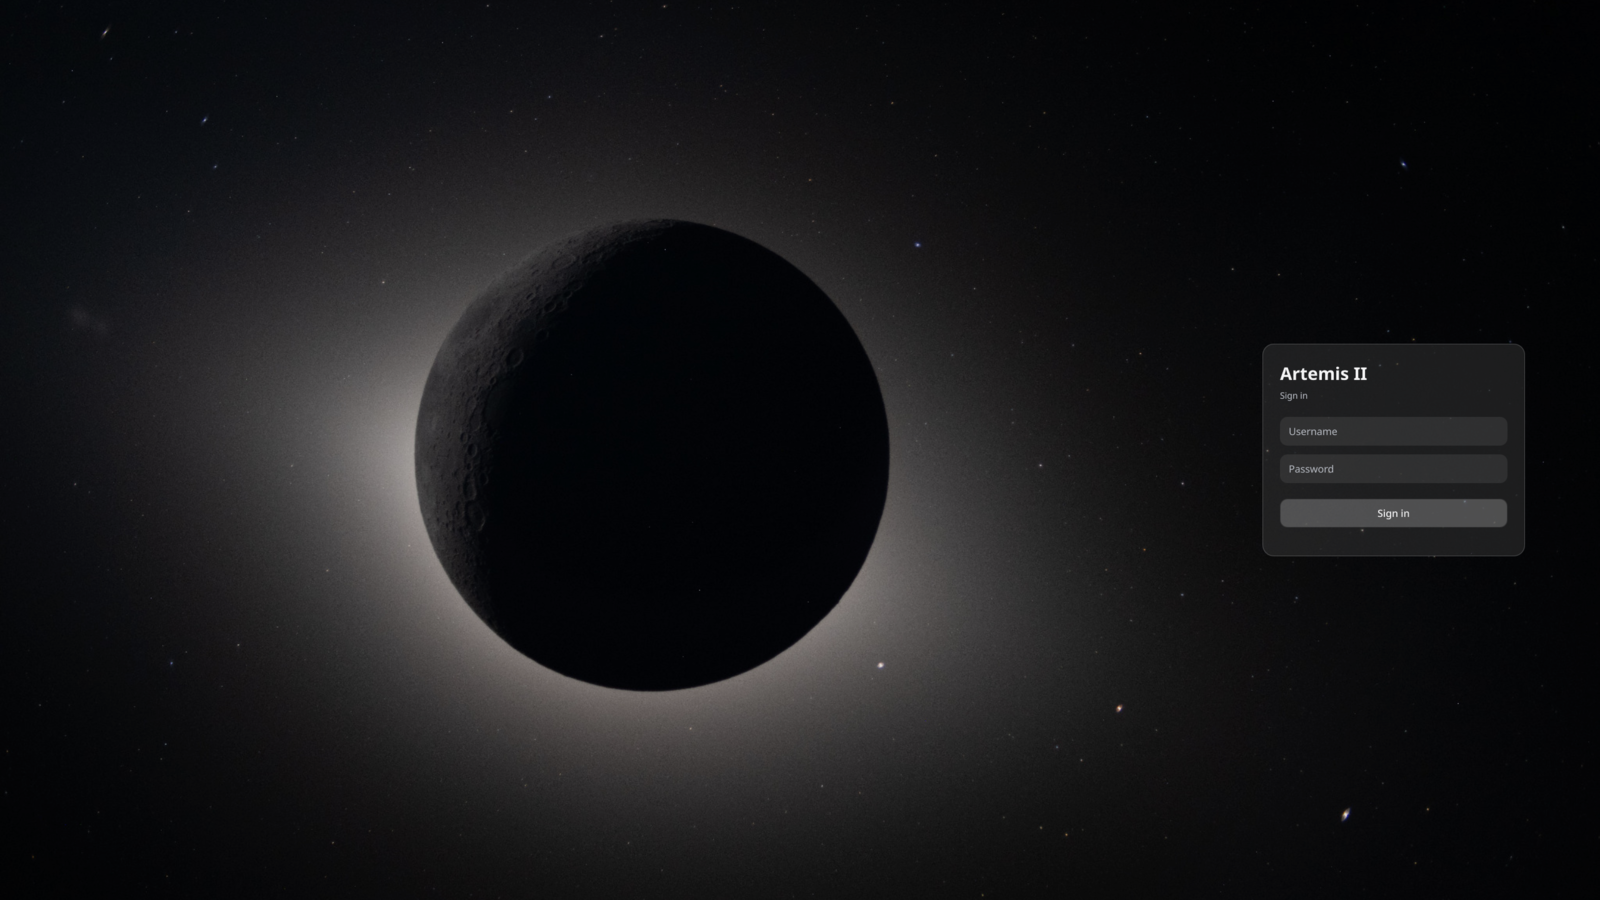
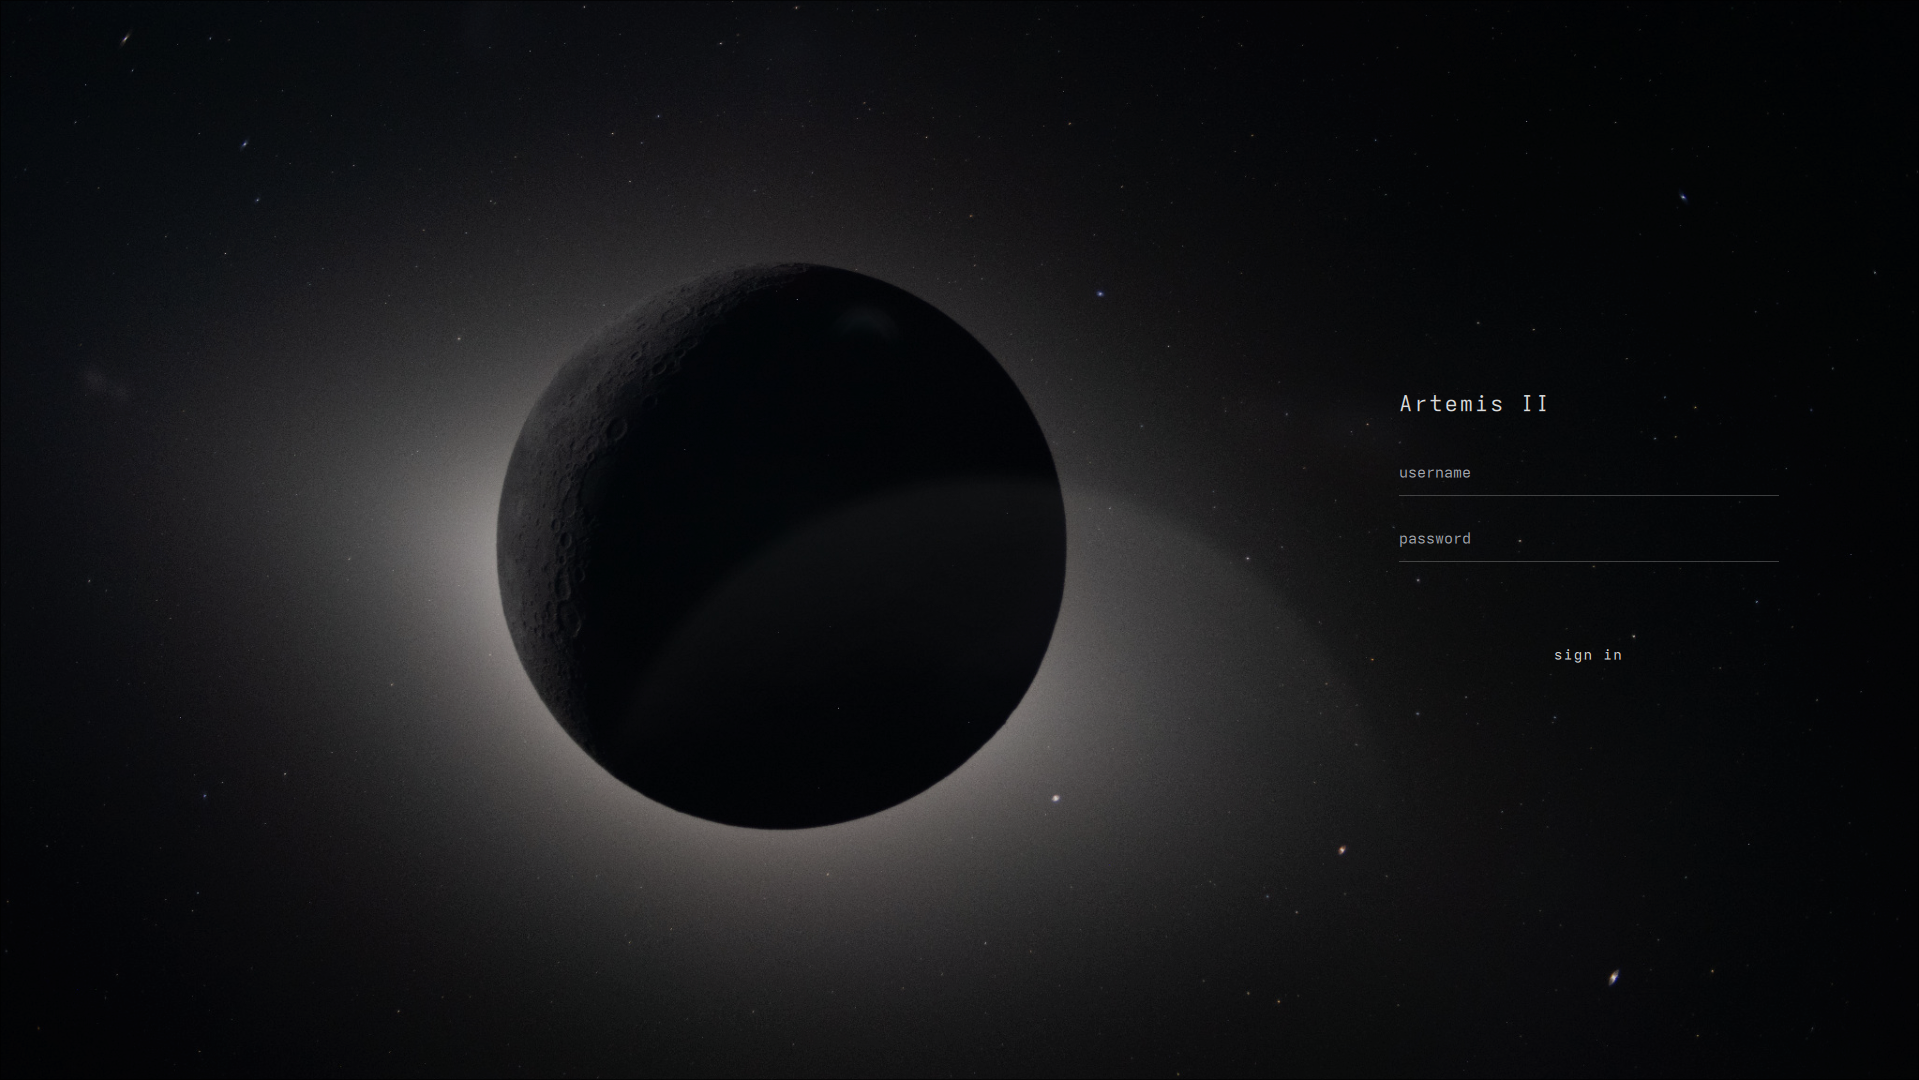
readme

Changed region(s): [[0.7188, 0.3733, 0.9688, 0.6222], [0.7188, 0.4978, 0.75, 0.5289]]

diff --git a/README.md b/README.md
@@ -2,6 +2,11 @@
 
 A minimal static SDDM theme for Plasma/SDDM, built around a dark lunar-eclipse image.
 
+## Changes in this fork 
+- I vibecoded a more simple form
+- In the original repo, when i tested it I cant use TAB to jump to the next textbox so claude added it.  
+
+
 ## Files
 
 - `Main.qml`: main theme layout and login UI
